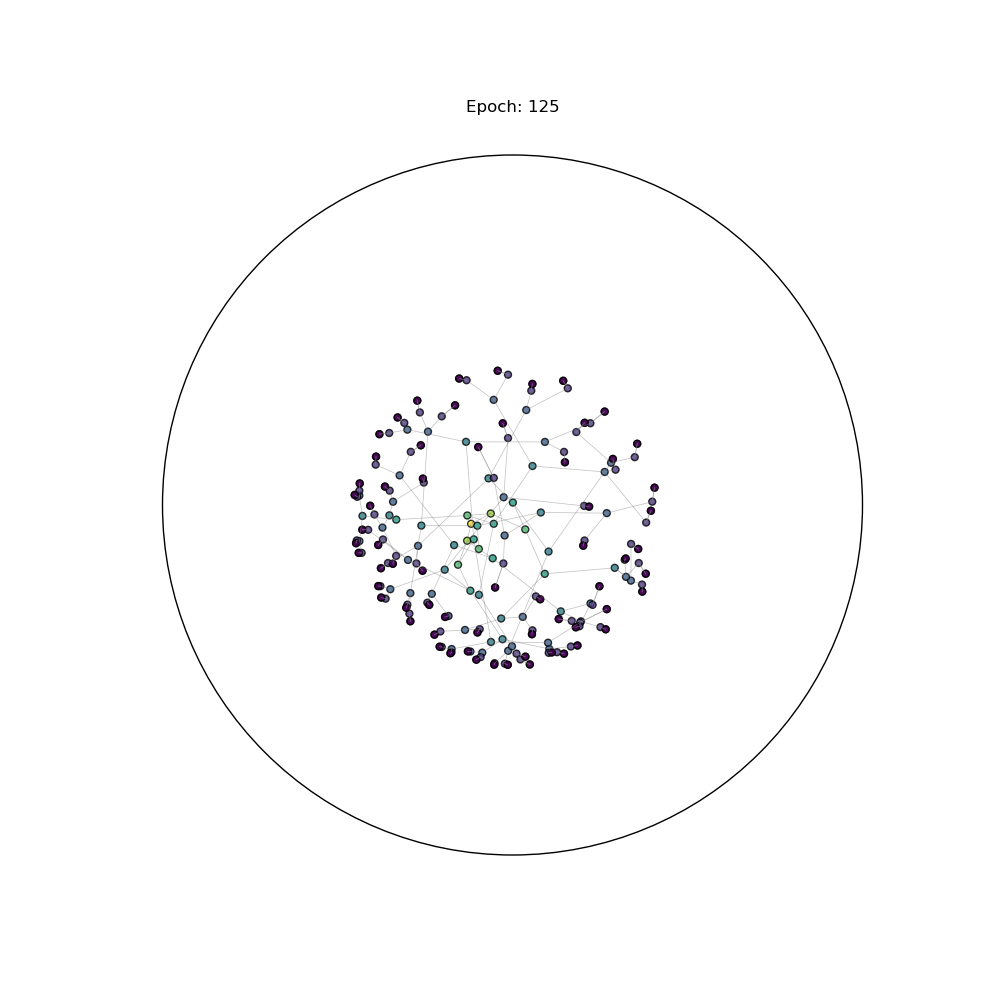
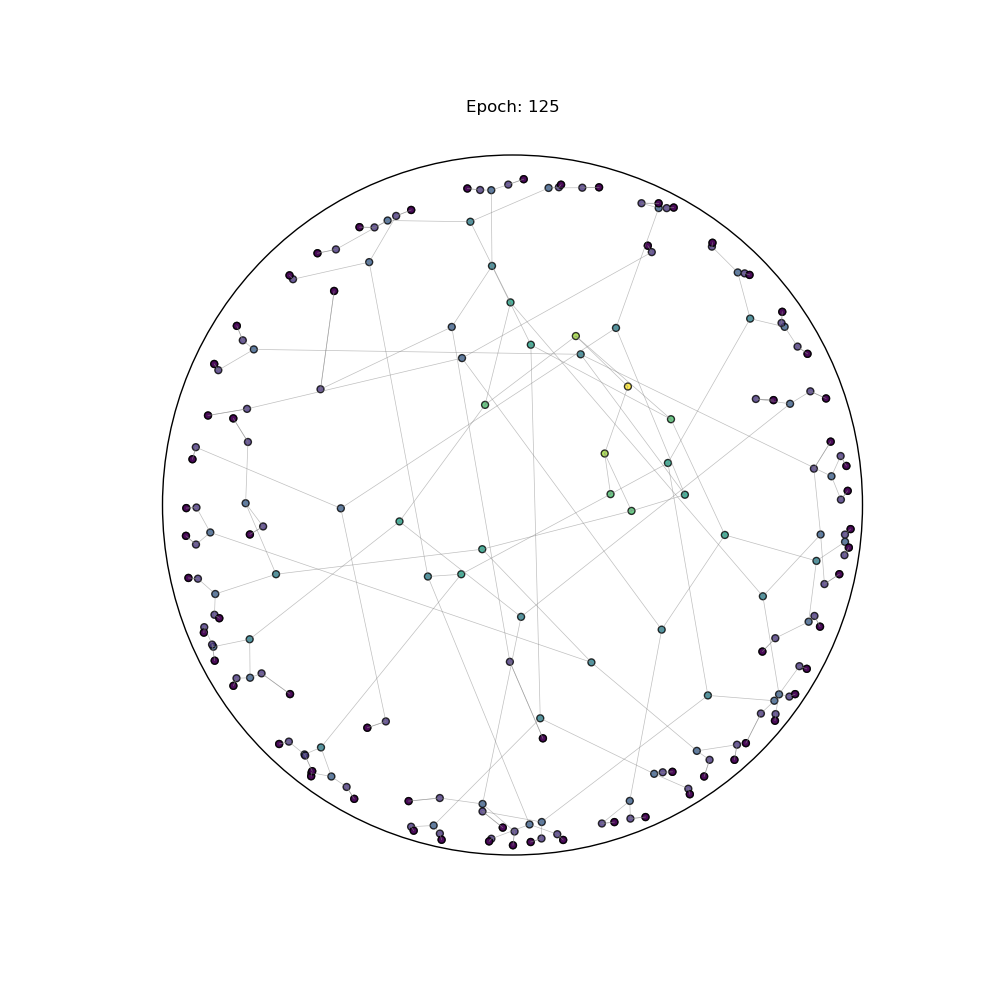
updated embedding

diff --git a/minimal/train_hyper_synth.py b/minimal/train_hyper_synth.py
@@ -41,20 +41,22 @@ print("CUDA Status is: ", device)
 # Load data
 adj, features, G = load_synthetic_data(7)
 
+print("Num nodes: ", features.shape[0])
+
 paths = nx.shortest_path_length(G,0)
 
 colors = [x[1] for x in paths.items()]
 
-init_c = nn.Parameter(torch.Tensor([0.75]), requires_grad=False)
-hid_c = nn.Parameter(torch.Tensor([0.5]), requires_grad=False)
-out_c = nn.Parameter(torch.Tensor([0.25]), requires_grad=False)
+init_c = nn.Parameter(torch.Tensor([1.0]), requires_grad=True)
+hid_c = nn.Parameter(torch.Tensor([1.0]), requires_grad=True)
+out_c = nn.Parameter(torch.Tensor([1.0]), requires_grad=False)
 
 # Model and optimizer
 model = HGCN(nfeat=features.shape[1],
-            nhid=8,
-            nhid2=32,
+            nhid=32,
+            nhid2=16,
             nout=3,
-            dropout=0.1,
+            dropout=0.05,
             init_c=init_c,
             hid_c=hid_c,
             out_c=out_c)
@@ -64,6 +66,8 @@ model = model.to(device)
 adj = adj.to(device)
 features = features.to(device)
 
+print("Model has:", sum(p.numel() for p in model.parameters() if p.requires_grad), "parameters")
+
 adj_list = []
 
 for idx1, row in enumerate(adj):
@@ -71,6 +75,7 @@ for idx1, row in enumerate(adj):
       if v == 1 and idx2 >= idx1:
         adj_list.append((idx1, idx2))
 
+print("Graph has:", len(adj_list), "Edges")
 
 # Train model
 t_total = time.time()
@@ -83,7 +88,7 @@ epochs = 500
 
 optimizer = optim.Adam(model.parameters(), lr=1e-2, weight_decay=1e-5)
 
-gamma = 0.1**(1/epochs)
+gamma = 0.01**(1/epochs)
 
 scheduler = optim.lr_scheduler.ExponentialLR(optimizer, gamma=gamma)
 

diff --git a/minimal/models/hgcn.py b/minimal/models/hgcn.py
@@ -18,13 +18,18 @@ class HGCN(nn.Module):
         self.hid_c = hid_c
         self.out_c = out_c
 
-        self.gc1 = HyperbolicGraphConvolution(self.manifold, nfeat+1, nhid, self.init_c, self.hid_c, 0.0, act=nn.ReLU(), use_bias=use_bias, use_att=use_att, local_agg=local_agg)
+        n_embed = 64
+
+        self.embed = nn.Linear(nfeat, n_embed-1)
+
+        self.gc1 = HyperbolicGraphConvolution(self.manifold, n_embed, nhid, self.init_c, self.hid_c, dropout, act=nn.ReLU(), use_bias=use_bias, use_att=use_att, local_agg=local_agg)
         self.gc2 = HyperbolicGraphConvolution(self.manifold, nhid, nhid2, self.hid_c, self.out_c, dropout, act=nn.ReLU(), use_bias=use_bias, use_att=use_att, local_agg=local_agg)
         self.l1 = HypLinear(self.manifold, nhid2, nout, c=self.out_c, dropout=dropout, use_bias=use_bias)
         
         self.layers = nn.Sequential(self.gc1, self.gc2)
 
     def encode(self, x):
+        x = self.embed.forward(x)
         o = torch.zeros_like(x)
         x = torch.cat([o[:, 0:1], x], dim=1)
 

diff --git a/minimal/layers/layers.py b/minimal/layers/layers.py
@@ -79,7 +79,7 @@ class HypLinear(nn.Module):
 
     def reset_parameters(self):
         init.xavier_normal_(self.weight, gain=math.sqrt(2))
-        init.ones_(self.bias)
+        init.normal_(self.bias)
 
     def forward(self, x):
         drop_weight = F.dropout(self.weight, self.dropout, training=self.training)
